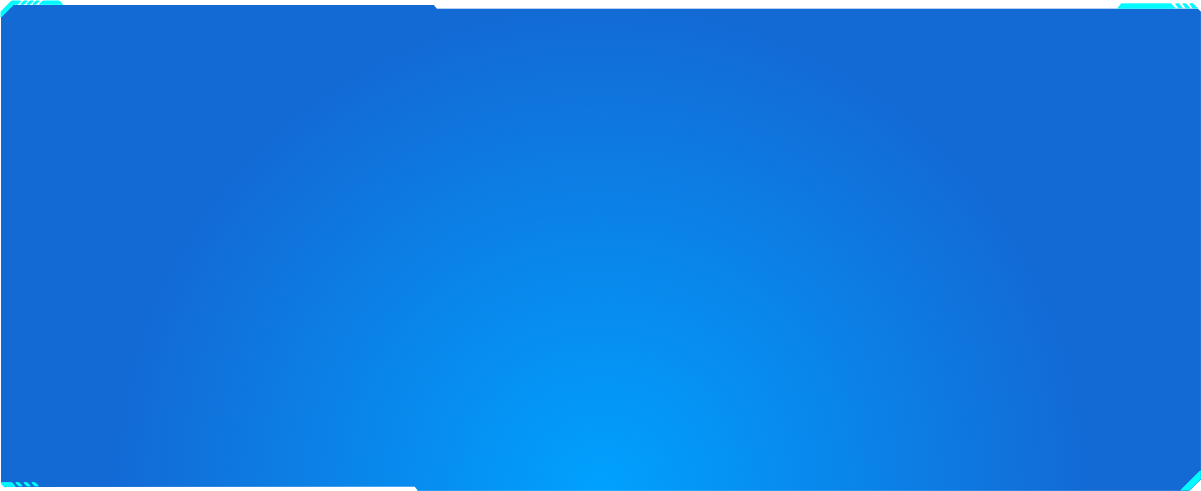
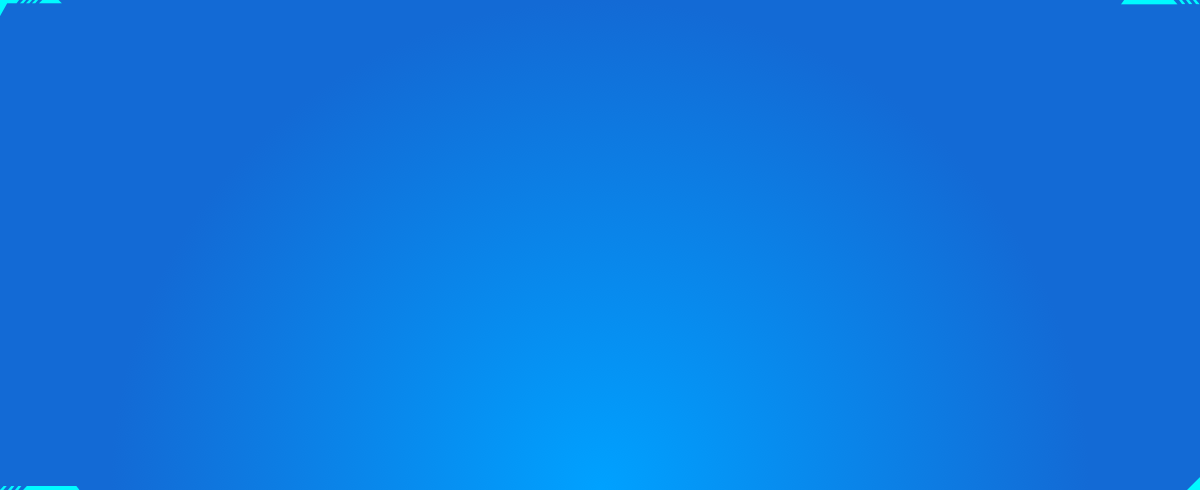
弹窗样式修改

Changed region(s): [[0.0, 0.0, 1.0, 0.0306], [0.0, 0.9796, 0.37, 1.0], [0.9558, 0.949, 1.0, 1.0]]

diff --git a/src/app/pages/main/home/accident-disaster/hazardous/hazardous.component.html b/src/app/pages/main/home/accident-disaster/hazardous/hazardous.component.html
@@ -4,7 +4,7 @@
   </div>
   <nz-modal [(nzVisible)]="isVisible" [nzTitle]="null" (nzOnCancel)="handleCancel()" (nzOnOk)="handleOk()"
             [nzOkLoading]="isOkLoading" [nzFooter]="null"
-            [nzClosable]="false" nzWidth="1201" [nzBodyStyle]="backImage">
+            [nzClosable]="false" nzWidth="1200" [nzBodyStyle]="backImage">
     <app-emergency-standard [tableData]="tableStandard"></app-emergency-standard>
   </nz-modal>
   <form [formGroup]="validateForm">

diff --git a/src/app/pages/main/home/natural-disaster/earthquake/earthquake.component.html b/src/app/pages/main/home/natural-disaster/earthquake/earthquake.component.html
@@ -4,7 +4,7 @@
   </div>
   <nz-modal [(nzVisible)]="isVisible" [nzTitle]="null" (nzOnCancel)="handleCancel()" (nzOnOk)="handleOk()"
             [nzOkLoading]="isOkLoading" [nzFooter]="null"
-            [nzClosable]="false" nzWidth="1201" [nzBodyStyle]="backImage">
+            [nzClosable]="false" nzWidth="1200" [nzBodyStyle]="backImage">
     <app-emergency-standard [tableData]="tableStandard"></app-emergency-standard>
   </nz-modal>
   <form [formGroup]="validateForm">

diff --git a/src/app/pages/main/home/natural-disaster/earthquake/earthquake.component.ts b/src/app/pages/main/home/natural-disaster/earthquake/earthquake.component.ts
@@ -84,7 +84,7 @@ export class EarthquakeComponent implements OnInit {
     ];
     this.backImage = {
       backgroundImage: 'url(../../assets/imgs/modal-box.png)',
-      height: '491px',
+      height: '490px',
     };
   }
 

diff --git a/src/app/pages/main/home/accident-disaster/hazardous/hazardous.component.ts b/src/app/pages/main/home/accident-disaster/hazardous/hazardous.component.ts
@@ -82,7 +82,7 @@ export class HazardousComponent implements OnInit {
     ];
     this.backImage = {
       backgroundImage: 'url(../../assets/imgs/modal-box.png)',
-      height: '491px',
+      height: '490px',
     };
   }
 
